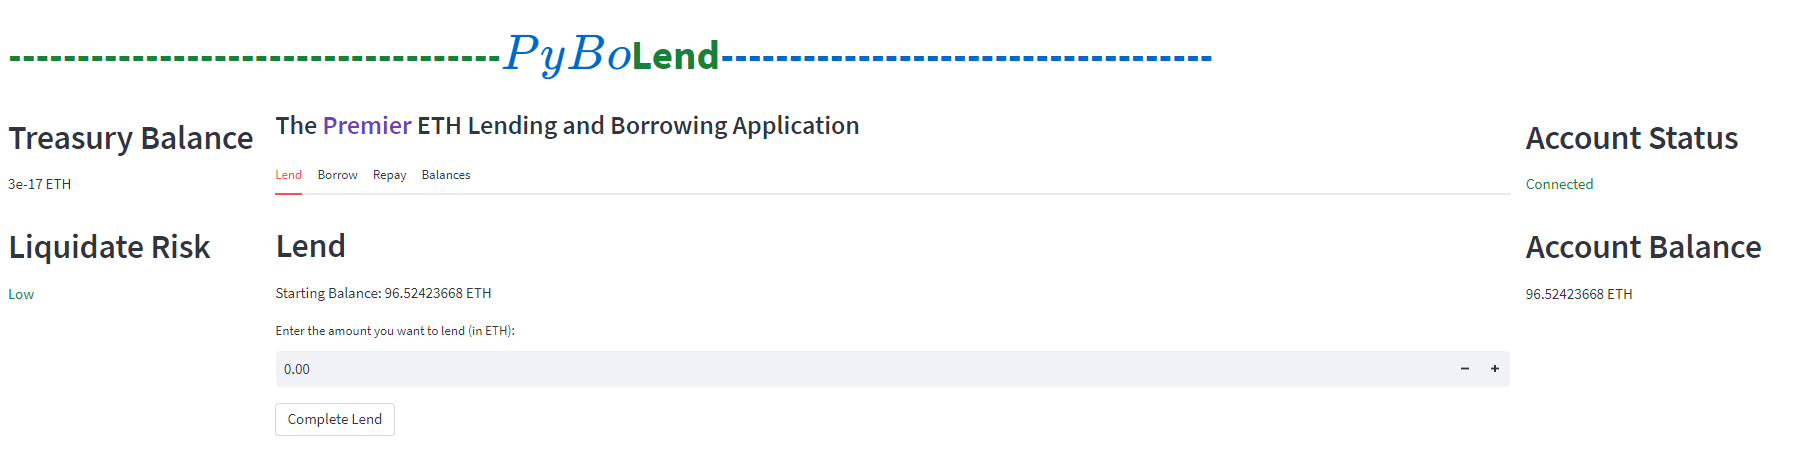
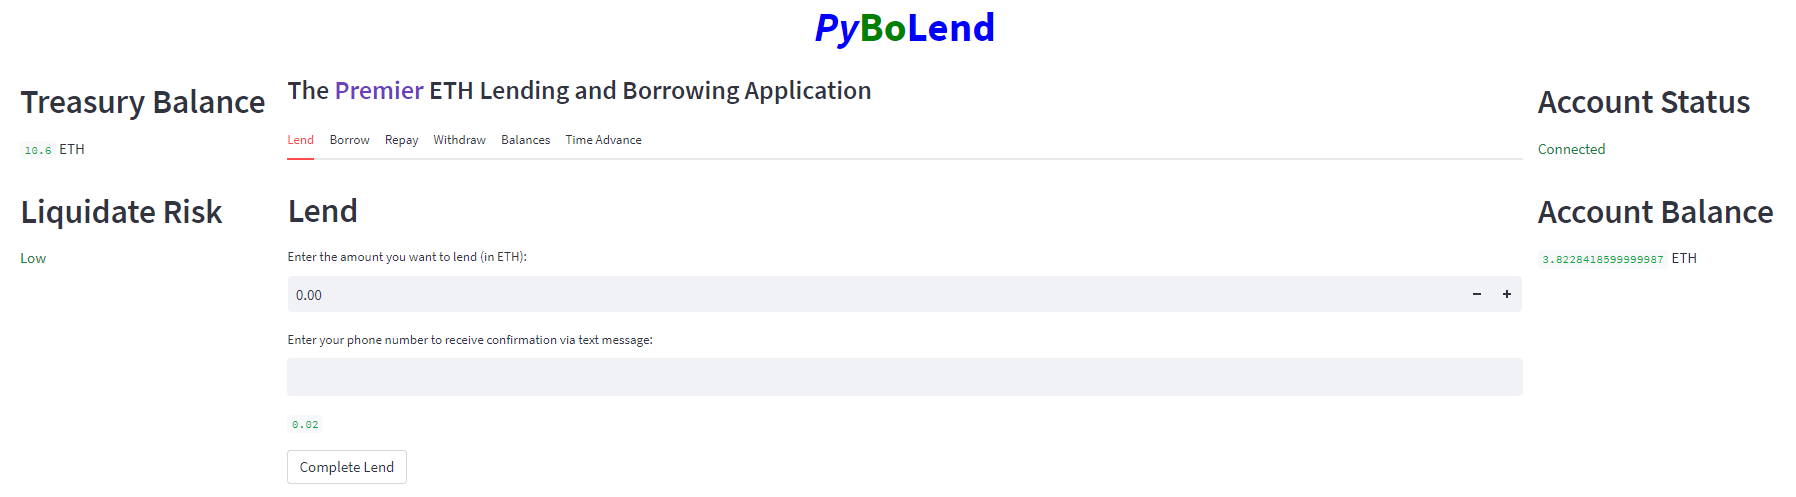
Modified notification functionality. Added to README.md

diff --git a/lend_borrow.py b/lend_borrow.py
@@ -18,11 +18,6 @@ from notification_manager import send_notification
 
 load_dotenv()
 
-# twilio_number = os.getenv("VIRTUAL_TWILIO_NUMBER")
-# user_number = os.getenv("VERIFIED_NUMBER")
-# twilio_sid = os.getenv("TWILIO_SID")
-# twilio_auth_token = os.getenv("TWILIO_AUTH_TOKEN")
-
 # creates a Web3 instance of the Ganache network on local machine
 w3 = Web3(Web3.HTTPProvider('HTTP://127.0.0.1:7545'))
 
@@ -30,7 +25,7 @@ st.set_page_config(layout='wide')
 
 
  #Smart Contract connection
-@st.cache_resource
+@st.cache(allow_output_mutation=True)
 def load_contract():
     ### UPDATE CONTRACT ABI INFO AFTER DEPLOYMENT ###
     with open (Path('pylend_abi.json')) as f:
@@ -154,6 +149,9 @@ with functions_col:
         st.header('Lend')   
 
         lend_amount = st.number_input('Enter the amount you want to lend (in ETH):')
+
+        notification_number = st.text_input('Enter your phone number to receive confirmation via text message:')
+
         if lend_amount != 0:
             st.write(f'{lend_interest_rate:.2}% Lending Interest' )
         else:
@@ -174,7 +172,11 @@ with functions_col:
             st.write(f'The new treasury balance is:' , solidity_function('treasury_balance'), 'ETH')
 
             # Sends SMS notification - NOTE the line below works, but commenting out until closer to presentation to limit trial uses
-            # send_notification(f"Transaction confirmed. You have received your deposit of {lend_amount}ETH. The amount you may borrow has increased by {lend_amount * 0.8}ETH.") 
+            if notification_number != None:
+                try:
+                    send_notification(f"Transaction confirmed. You have received your deposit of {lend_amount}ETH. The amount you may borrow has increased by {lend_amount * 0.8}ETH.", f"+1{notification_number}") 
+                except:
+                    st.write("The number you entered may not be valid, but the above information confirms your transaction.")
 
 
     # Creates Borrow Tab

diff --git a/notification_manager.py b/notification_manager.py
@@ -7,10 +7,9 @@ from dotenv import load_dotenv
 load_dotenv() 
 
 
-def send_notification(message):
+def send_notification(message, user_number):
     # saves .env variables
     twilio_number = os.getenv("VIRTUAL_TWILIO_NUMBER")
-    user_number = os.getenv("VERIFIED_NUMBER")
     twilio_sid = os.getenv("TWILIO_SID")
     twilio_auth_token = os.getenv("TWILIO_AUTH_TOKEN")    
 

diff --git a/README.md b/README.md
@@ -130,7 +130,77 @@ The user is able to withdraw their balance by interact with the contract over st
 
 
 ### Interest Rate Calculation
-Interest functionality is coded in `Interest_rate.py`, imported into `lend_borrow.py`, then then sent over to the `pylend.sol` smart contract.
+Interest functionality is coded in `Interest_rate.py`, imported into `lend_borrow.py`, then then sent over to the `pylend.sol` smart contract. The `Interest_rate.py` files defines three funtioons.
+
+The `utilization_rate()` function takes two parameters, the `contract_balance` and `contract_lend`. Based on these two parameters, it then calculates the utilization rate by amount lent by the contract balance. This figure is then returned for future use. Additionally it returns a boolean value called `over_borrow` that is used in the interest rate calculation.
+
+```python
+def utilization_rate(contract_balance, contract_lend):
+
+    # sets default rate if the function errors out
+    util_rate = .5
+    over_borrow = False
+
+    # tests contract balance and calculates Util rate
+
+    if contract_balance>= 0 and contract_balance>contract_lend:
+        util_rate = contract_lend/contract_balance
+    elif contract_balance >= 0 and contract_balance < contract_lend:
+        over_borrow = True
+    return over_borrow, util_rate
+```
+
+The next function defined in `Interest_rate.py` is actual interest rate calculation. First a default rate is set by multiplying the base rate by `slope1`. Then the function checks to see if the `over_borrow` status is True of False to determine the optimal interest calculation. Af the utilization rate is above or below the optimal level, different interest rates are determined. These dynamic calculations work to incentivize or disincentivize lending and borrowing accordingly.
+
+```python
+def interest_rate(util_rate ,util_optimal, base_rate, slope1, slope2, over_borrow):
+    
+    #sets default rate 
+    i_rate = base_rate + slope1
+    
+    # Test if there is an over-borrow situation
+    if over_borrow == False:
+
+        # if the utilization rate is less than the optimal rate
+        if util_rate<= util_optimal:
+            i_rate = base_rate + slope1*(util_rate/util_optimal)
+
+        # if the utilization rate is greater than the optimal rate    
+        elif util_rate >util_optimal:
+            i_rate = base_rate +slope1 +slope2*((util_rate -util_optimal)/(1-util_optimal))
+    
+    # sets the intrest if the over borrow is high
+    elif over_borrow == True:
+        i_rate = i_rate + slope1 + slope2*100
+
+    return i_rate
+```
+
+The final function then sends the interest calculated to the smart contract so the user can be credited or debited accordingly. 
+
+### Notifications
+PyBoLend allows for users to received confirmation via SMS text message after a successful lending transaction. This functionality is coded in a file called `notification_manager.py`, which uses an API provided by Twilio to send the messages. A function called `send_notification()` is coded below:
+
+```python
+def send_notification(message, user_number):
+    # saves .env variables
+    twilio_number = os.getenv("VIRTUAL_TWILIO_NUMBER")
+    twilio_sid = os.getenv("TWILIO_SID")
+    twilio_auth_token = os.getenv("TWILIO_AUTH_TOKEN")    
+
+    # initializes client object
+    client = Client(twilio_sid, twilio_auth_token)
+
+    # creates and send notification message
+    message = client.messages.create(
+        body=message,
+        from_=twilio_number,
+        to=user_number
+    )
+```
+
+This function takes a message and the user provided telephone number as parameters. After the required environment variables are then loaded and saved, the function creates an instance of the `Client()` object, and save it to the `client` variable. And in the last five lines the notification message is constructed and sent.
+
 
 ## Test Cases
 - Lending successful execution
